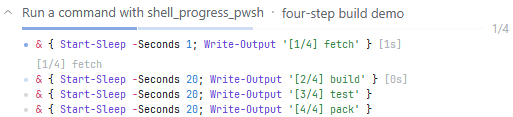
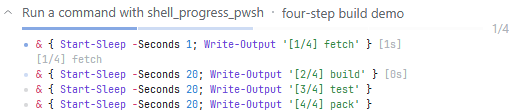
fix(client): give the step list one line rhythm
The command gap to its own output was five times the gap from that output to the next command: the output carried margin-top 3px plus padding-top 2px (5px) while the rows themselves add nothing. It now carries margin 0 and no vertical padding, so every line in the list — a command, its output, the next command — sits on the same 15px rhythm; the indent is what still says which output belongs to which command.

The unit test that pinned the :not(:empty) rule now pins the same intent directly: the output carries margin 0 and no padding-top, so an output that printed nothing takes no room and no line is spaced away from the one above it. Card height drops 5px; both figures re-shot.

diff --git a/tests/client-render.spec.ts b/tests/client-render.spec.ts
@@ -487,12 +487,15 @@ describe('the built client bundle, rendered', () => {  it('injects one styleshee
     expect(dividerUses, 'the divider token is used by something other than the card\'s rule').toHaveLength(1)
     expect(outputBody, 'the output is not dimmer than the command').toContain('color:var(--dsw-alias-label-caption')
     expect(outputBody, 'the output still wears the command line\'s own colour').not.toContain('color:var(--dsw-alias-label-primary')
-    // The `:empty` rule that existed for the divider is gone with it, and the spacing
-    // that keeps an empty output out of the way now hangs on the block that HAS
-    // something to show: dropping the rule must not re-open a blank gap under a step
-    // that printed nothing.
+    // The `:empty` rule that existed for the divider is gone with it, and no rule puts room
+    // back: the output carries `margin: 0` and no vertical padding, so an output that printed
+    // nothing takes no room AND every line in the list — a command, its output, the next
+    // command — sits on the same 15px rhythm. It used to carry 3px of margin plus 2px of
+    // padding, five times the gap below it, which is what made an output look as if it
+    // floated between two steps rather than hanging under its own.
     expect(css, 'the dropped `:empty` rule is still in the stylesheet').not.toMatch(/:empty\{/u)
-    expect(css, 'an empty output would take up blank room again').toMatch(/_output[A-Za-z0-9_-]*:not\(:empty\)\{/u)
+    expect(outputBody, 'the output spaces itself away from its command again').toContain('margin:0')
+    expect(outputBody, 'the output adds space above itself again').not.toContain('padding-top')
     // The BAR is slimmer than its own box, and this is the CSS half of "smaller, with the
     // hot zone intact": the segment clips its paint to the content box and takes 1.5px of
     // top and bottom padding to make the difference, while its box — the pointer target —

diff --git a/src/client/StepList.module.css b/src/client/StepList.module.css
@@ -239,19 +239,17 @@
   padding-left: var(--step-output-indent, 15px);
   color: var(--dsw-alias-label-caption, inherit);
   white-space: pre-wrap;
+  /* ONE RHYTHM FOR THE WHOLE LIST. Every line here — a command, the output under it, the
+   * next command — is one 15px line box, and nothing adds space above itself. The output
+   * used to carry `margin-top: 3px` and `padding-top: 2px`, which made the command gap to
+   * its own output five times the gap from that output to the next command: the output read
+   * as floating between two steps instead of hanging under the one it belongs to. What tells
+   * the two apart is the indent — the output starts on the command's own column, the next
+   * marker starts at the marker column — not a gap. An output that printed nothing still
+   * takes no room, because there is no margin and no padding here to give it any. */
+  margin: 0;
 }
 
-/* The space between the command line and the output, on the block that has
- * something to show. The JS guard in `StepList.tsx` is the real
- * mechanism — a `\n`-only output is a text node, so `:not(:empty)` never matches
- * it — and this rule is the second guard for a block that did reach the DOM with
- * no text: it takes up no room, which is about there being nothing to show rather
- * than about folding
- * anything away. */
-.output:not(:empty) {
-  margin: 3px 0 0;
-  padding-top: 2px;
-}
 
 /* The cut, stated AT the cut. Dimmer than the output it follows — it is a note ABOUT
  * that output, not output — and on the command text's own column, like the block above
